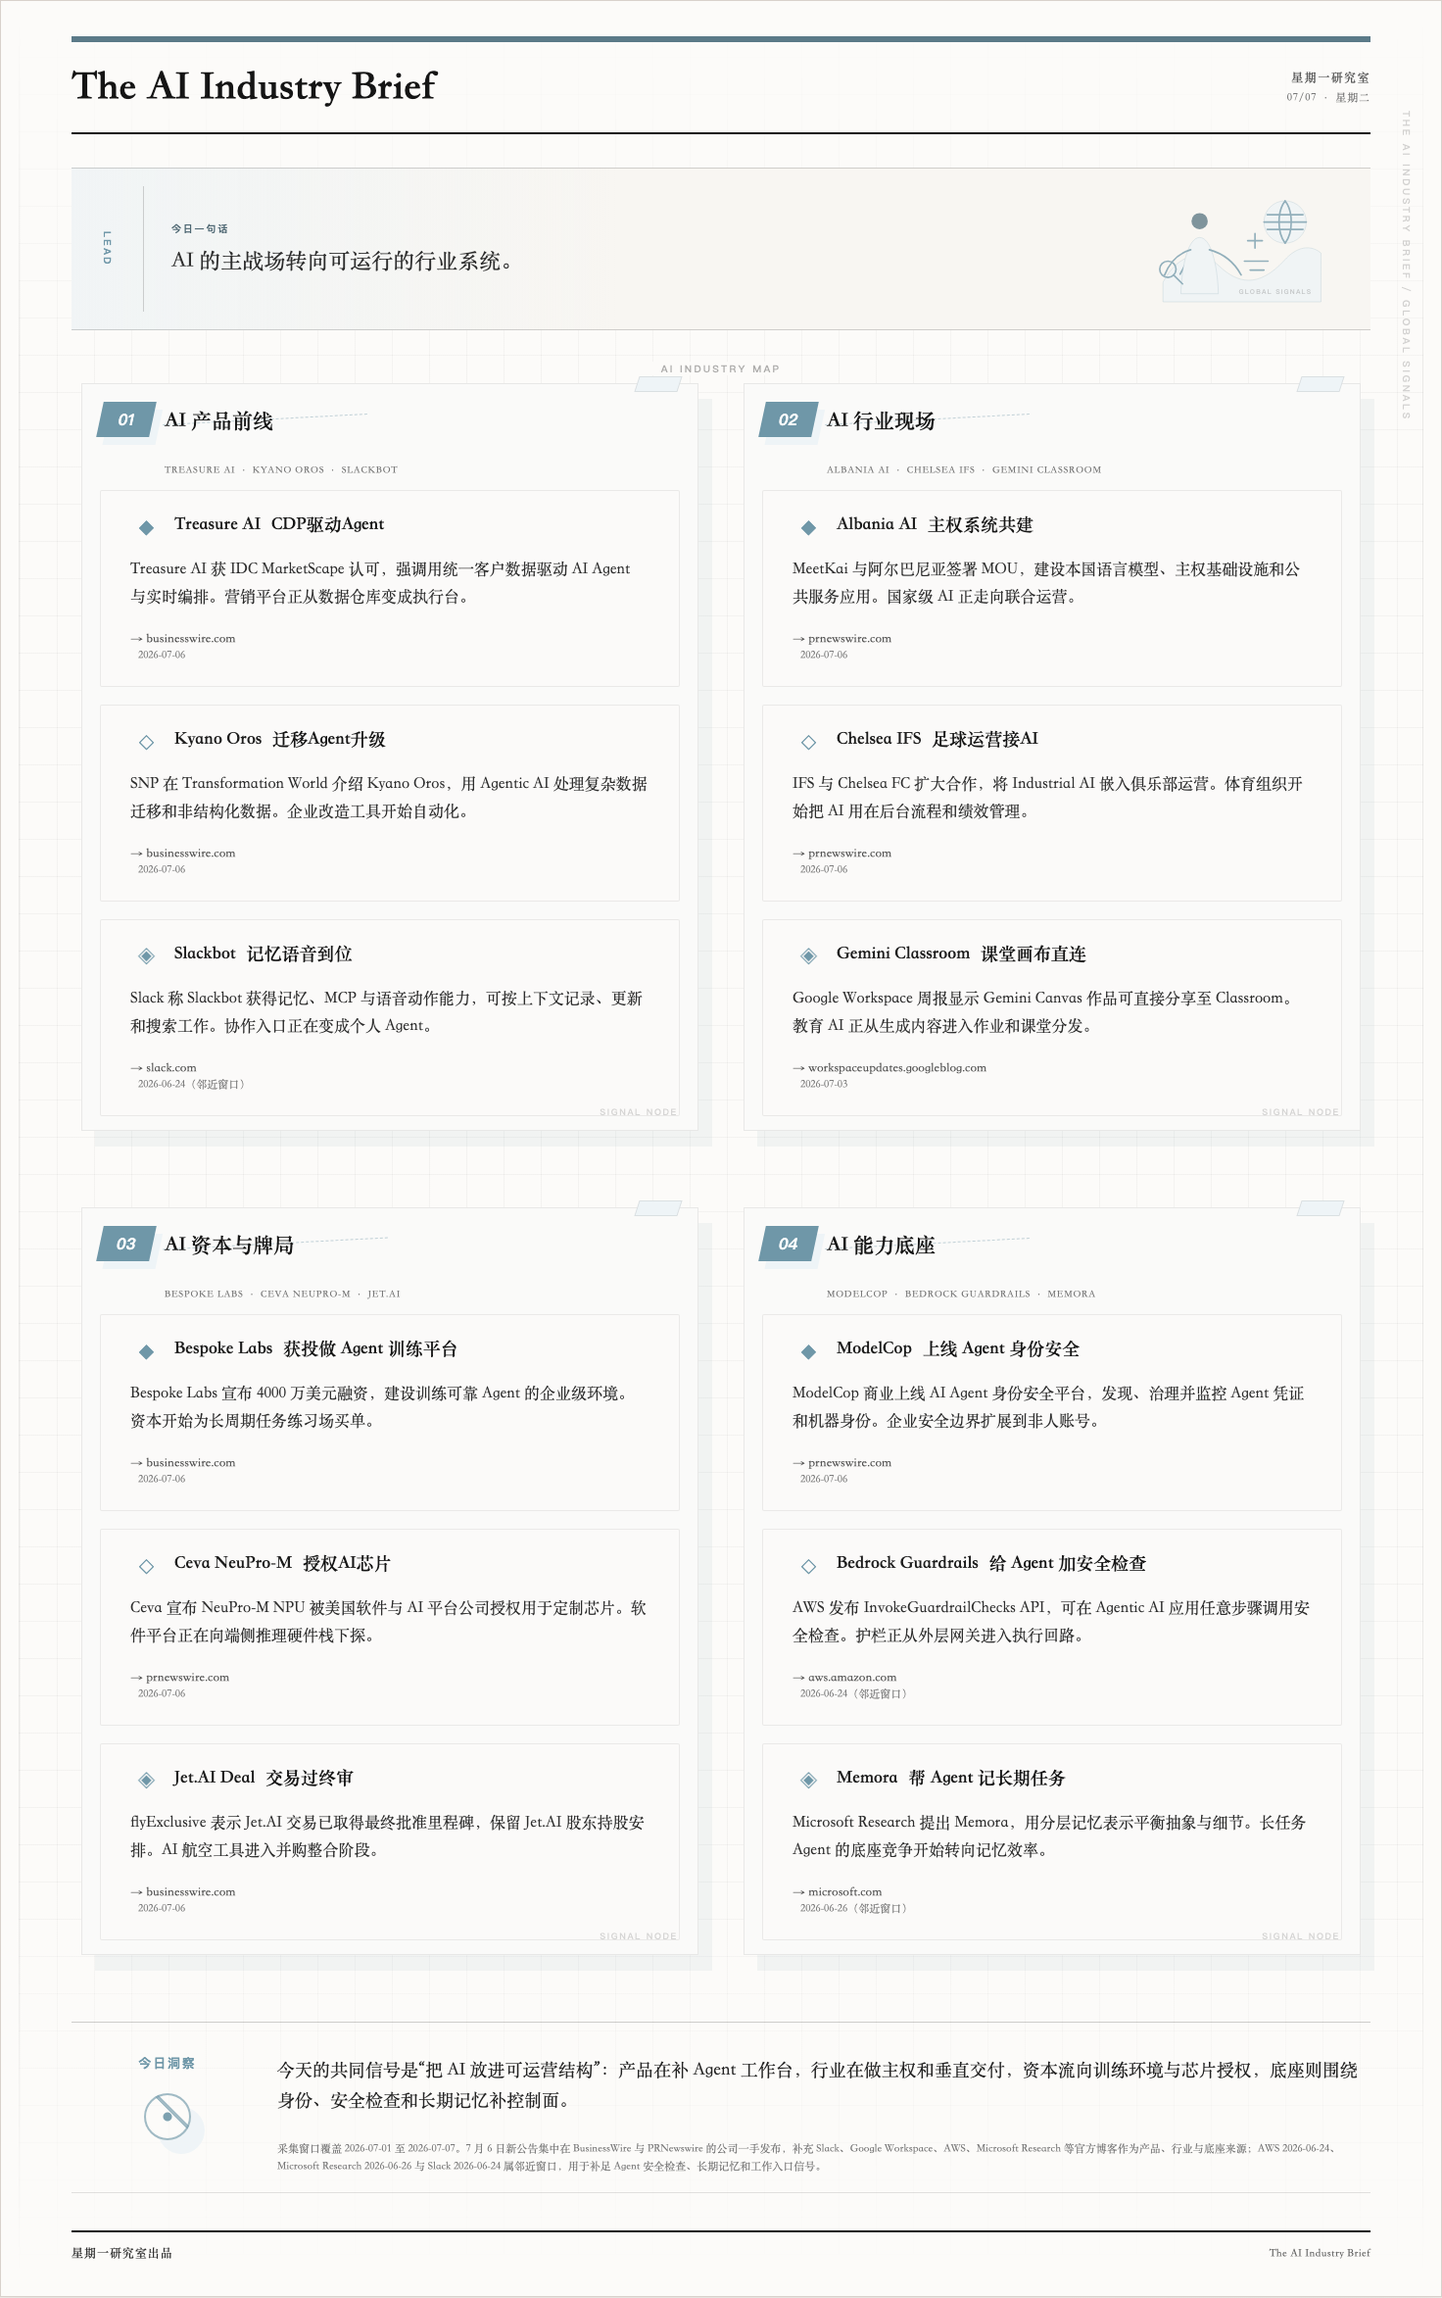
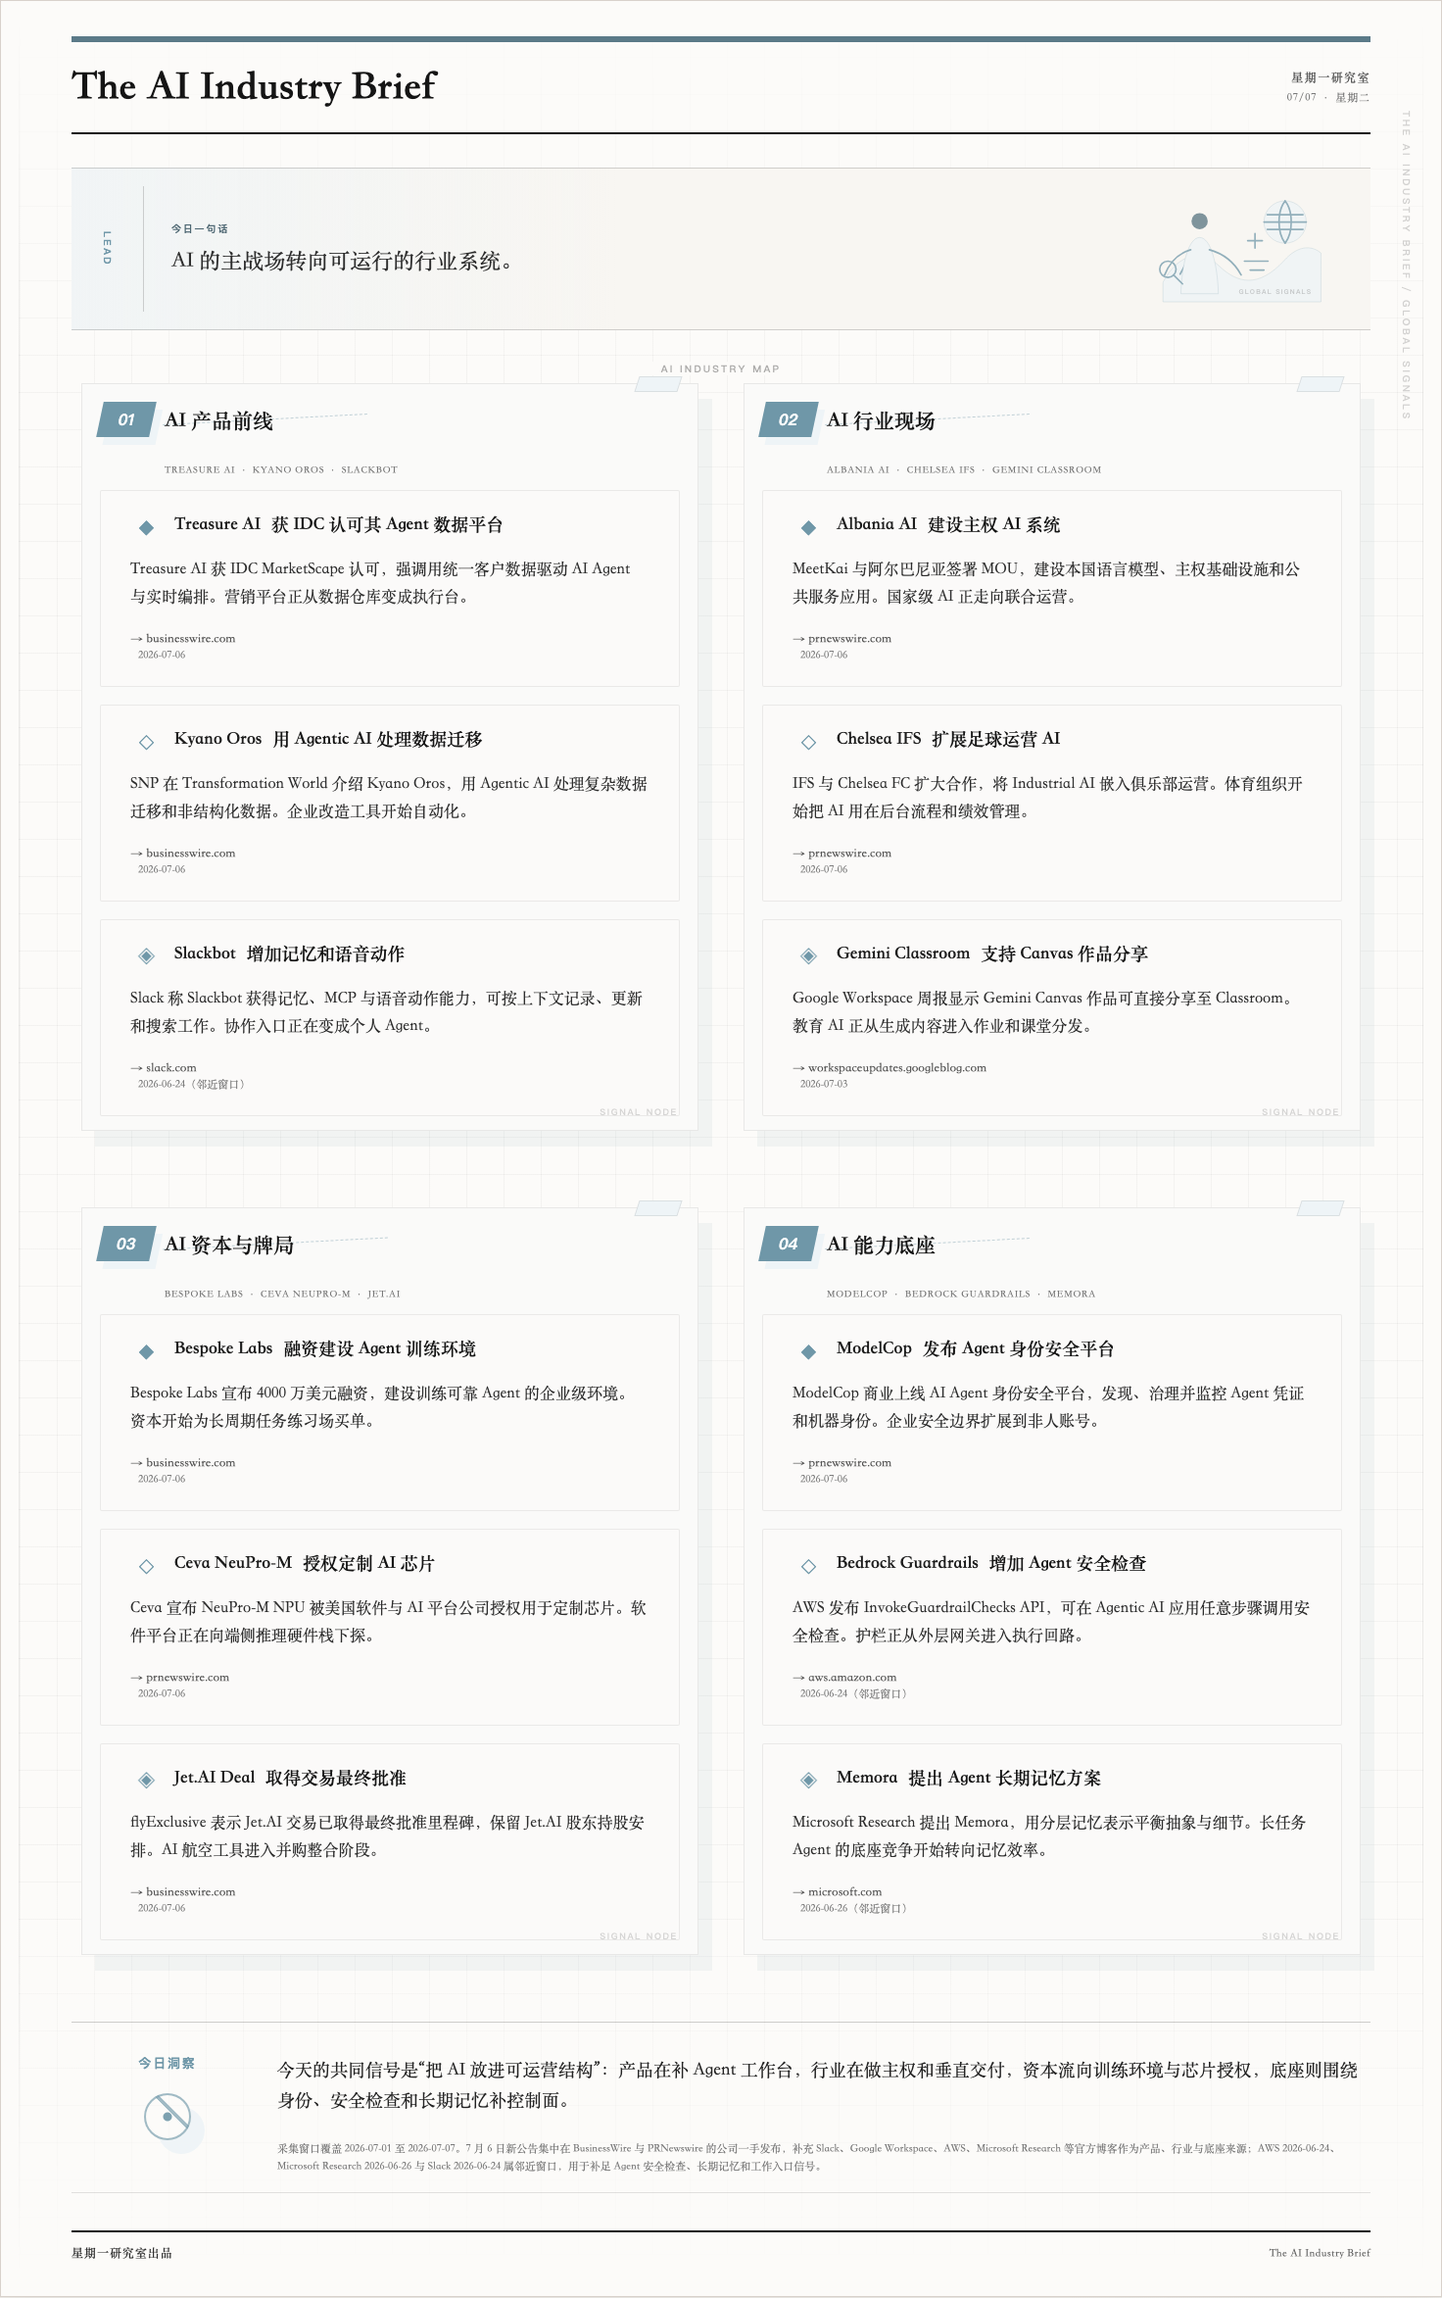
Clarify brief item title predicates

diff --git a/briefs/2026-07-07.html b/briefs/2026-07-07.html
@@ -548,17 +548,17 @@ body {
     <div class="section-sub">Treasure AI · Kyano Oros · Slackbot</div>
     <div class="section-items">
     <article class="item">
-      <div class="item-title"><span class="item-num" data-mark="◆" aria-label="01">01</span><span class="item-copy"><span class="item-tool">Treasure AI</span> <span class="item-heading">CDP驱动Agent</span></span></div>
+      <div class="item-title"><span class="item-num" data-mark="◆" aria-label="01">01</span><span class="item-copy"><span class="item-tool">Treasure AI</span> <span class="item-heading">获 IDC 认可其 Agent 数据平台</span></span></div>
       <p class="item-desc">Treasure AI 获 IDC MarketScape 认可，强调用统一客户数据驱动 AI Agent 与实时编排。营销平台正从数据仓库变成执行台。</p>
       <a class="item-source" href="https://www.businesswire.com/news/home/20260706126013/en/Treasure-AI-Recognized-as-a-Leader-for-Both-B2C-and-B2B-Users-in-the-2026-IDC-MarketScape-for-Worldwide-AI-Enabled-Customer-Data-Platforms" target="_blank" rel="noopener noreferrer">→ businesswire.com</a><span class="source-date">2026-07-06</span>
     </article>
     <article class="item">
-      <div class="item-title"><span class="item-num" data-mark="◇" aria-label="02">02</span><span class="item-copy"><span class="item-tool">Kyano Oros</span> <span class="item-heading">迁移Agent升级</span></span></div>
+      <div class="item-title"><span class="item-num" data-mark="◇" aria-label="02">02</span><span class="item-copy"><span class="item-tool">Kyano Oros</span> <span class="item-heading">用 Agentic AI 处理数据迁移</span></span></div>
       <p class="item-desc">SNP 在 Transformation World 介绍 Kyano Oros，用 Agentic AI 处理复杂数据迁移和非结构化数据。企业改造工具开始自动化。</p>
       <a class="item-source" href="https://www.businesswire.com/news/home/20260706867577/en/Transformation-World-2026-The-Best-Data-for-Business-AI" target="_blank" rel="noopener noreferrer">→ businesswire.com</a><span class="source-date">2026-07-06</span>
     </article>
     <article class="item">
-      <div class="item-title"><span class="item-num" data-mark="◈" aria-label="03">03</span><span class="item-copy"><span class="item-tool">Slackbot</span> <span class="item-heading">记忆语音到位</span></span></div>
+      <div class="item-title"><span class="item-num" data-mark="◈" aria-label="03">03</span><span class="item-copy"><span class="item-tool">Slackbot</span> <span class="item-heading">增加记忆和语音动作</span></span></div>
       <p class="item-desc">Slack 称 Slackbot 获得记忆、MCP 与语音动作能力，可按上下文记录、更新和搜索工作。协作入口正在变成个人 Agent。</p>
       <a class="item-source" href="https://slack.com/blog/news/the-ai-that-knows-your-work-and-organization" target="_blank" rel="noopener noreferrer">→ slack.com</a><span class="source-date">2026-06-24（邻近窗口）</span>
     </article>
@@ -575,17 +575,17 @@ body {
     <div class="section-sub">Albania AI · Chelsea IFS · Gemini Classroom</div>
     <div class="section-items">
     <article class="item">
-      <div class="item-title"><span class="item-num" data-mark="◆" aria-label="01">01</span><span class="item-copy"><span class="item-tool">Albania AI</span> <span class="item-heading">主权系统共建</span></span></div>
+      <div class="item-title"><span class="item-num" data-mark="◆" aria-label="01">01</span><span class="item-copy"><span class="item-tool">Albania AI</span> <span class="item-heading">建设主权 AI 系统</span></span></div>
       <p class="item-desc">MeetKai 与阿尔巴尼亚签署 MOU，建设本国语言模型、主权基础设施和公共服务应用。国家级 AI 正走向联合运营。</p>
       <a class="item-source" href="https://www.prnewswire.com/news-releases/meetkai-and-albania-announce-joint-venture-to-advance-sovereign-ai-302818647.html" target="_blank" rel="noopener noreferrer">→ prnewswire.com</a><span class="source-date">2026-07-06</span>
     </article>
     <article class="item">
-      <div class="item-title"><span class="item-num" data-mark="◇" aria-label="02">02</span><span class="item-copy"><span class="item-tool">Chelsea IFS</span> <span class="item-heading">足球运营接AI</span></span></div>
+      <div class="item-title"><span class="item-num" data-mark="◇" aria-label="02">02</span><span class="item-copy"><span class="item-tool">Chelsea IFS</span> <span class="item-heading">扩展足球运营 AI</span></span></div>
       <p class="item-desc">IFS 与 Chelsea FC 扩大合作，将 Industrial AI 嵌入俱乐部运营。体育组织开始把 AI 用在后台流程和绩效管理。</p>
       <a class="item-source" href="https://www.prnewswire.com/news-releases/ifs-and-chelsea-fc-announce-landmark-agreement-to-embed-industrial-ai-across-premier-league-football-operations-302818549.html" target="_blank" rel="noopener noreferrer">→ prnewswire.com</a><span class="source-date">2026-07-06</span>
     </article>
     <article class="item">
-      <div class="item-title"><span class="item-num" data-mark="◈" aria-label="03">03</span><span class="item-copy"><span class="item-tool">Gemini Classroom</span> <span class="item-heading">课堂画布直连</span></span></div>
+      <div class="item-title"><span class="item-num" data-mark="◈" aria-label="03">03</span><span class="item-copy"><span class="item-tool">Gemini Classroom</span> <span class="item-heading">支持 Canvas 作品分享</span></span></div>
       <p class="item-desc">Google Workspace 周报显示 Gemini Canvas 作品可直接分享至 Classroom。教育 AI 正从生成内容进入作业和课堂分发。</p>
       <a class="item-source" href="https://workspaceupdates.googleblog.com/2026/07/weekly-recap-07-03-2026.html" target="_blank" rel="noopener noreferrer">→ workspaceupdates.googleblog.com</a><span class="source-date">2026-07-03</span>
     </article>
@@ -602,17 +602,17 @@ body {
     <div class="section-sub">Bespoke Labs · Ceva NeuPro-M · Jet.AI</div>
     <div class="section-items">
     <article class="item">
-      <div class="item-title"><span class="item-num" data-mark="◆" aria-label="01">01</span><span class="item-copy"><span class="item-tool">Bespoke Labs</span> <span class="item-heading">获投做 Agent 训练平台</span></span></div>
+      <div class="item-title"><span class="item-num" data-mark="◆" aria-label="01">01</span><span class="item-copy"><span class="item-tool">Bespoke Labs</span> <span class="item-heading">融资建设 Agent 训练环境</span></span></div>
       <p class="item-desc">Bespoke Labs 宣布 4000 万美元融资，建设训练可靠 Agent 的企业级环境。资本开始为长周期任务练习场买单。</p>
       <a class="item-source" href="https://www.businesswire.com/news/home/20260706827813/en/Bespoke-Labs-Announces-%2440M-to-Build-the-Environments-That-Train-Reliable-Agents" target="_blank" rel="noopener noreferrer">→ businesswire.com</a><span class="source-date">2026-07-06</span>
     </article>
     <article class="item">
-      <div class="item-title"><span class="item-num" data-mark="◇" aria-label="02">02</span><span class="item-copy"><span class="item-tool">Ceva NeuPro-M</span> <span class="item-heading">授权AI芯片</span></span></div>
+      <div class="item-title"><span class="item-num" data-mark="◇" aria-label="02">02</span><span class="item-copy"><span class="item-tool">Ceva NeuPro-M</span> <span class="item-heading">授权定制 AI 芯片</span></span></div>
       <p class="item-desc">Ceva 宣布 NeuPro-M NPU 被美国软件与 AI 平台公司授权用于定制芯片。软件平台正在向端侧推理硬件栈下探。</p>
       <a class="item-source" href="https://www.prnewswire.com/news-releases/ceva-wins-landmark-ai-licensing-deal-with-major-us-software-and-ai-platform-company-302818112.html" target="_blank" rel="noopener noreferrer">→ prnewswire.com</a><span class="source-date">2026-07-06</span>
     </article>
     <article class="item">
-      <div class="item-title"><span class="item-num" data-mark="◈" aria-label="03">03</span><span class="item-copy"><span class="item-tool">Jet.AI Deal</span> <span class="item-heading">交易过终审</span></span></div>
+      <div class="item-title"><span class="item-num" data-mark="◈" aria-label="03">03</span><span class="item-copy"><span class="item-tool">Jet.AI Deal</span> <span class="item-heading">取得交易最终批准</span></span></div>
       <p class="item-desc">flyExclusive 表示 Jet.AI 交易已取得最终批准里程碑，保留 Jet.AI 股东持股安排。AI 航空工具进入并购整合阶段。</p>
       <a class="item-source" href="https://www.businesswire.com/news/home/20260706417264/en/flyExclusive-Reaches-Final-Approval-Milestone-for-Jet.AI-Transaction-Positioning-Company-for-Continued-Growth" target="_blank" rel="noopener noreferrer">→ businesswire.com</a><span class="source-date">2026-07-06</span>
     </article>
@@ -629,17 +629,17 @@ body {
     <div class="section-sub">ModelCop · Bedrock Guardrails · Memora</div>
     <div class="section-items">
     <article class="item">
-      <div class="item-title"><span class="item-num" data-mark="◆" aria-label="01">01</span><span class="item-copy"><span class="item-tool">ModelCop</span> <span class="item-heading">上线 Agent 身份安全</span></span></div>
+      <div class="item-title"><span class="item-num" data-mark="◆" aria-label="01">01</span><span class="item-copy"><span class="item-tool">ModelCop</span> <span class="item-heading">发布 Agent 身份安全平台</span></span></div>
       <p class="item-desc">ModelCop 商业上线 AI Agent 身份安全平台，发现、治理并监控 Agent 凭证和机器身份。企业安全边界扩展到非人账号。</p>
       <a class="item-source" href="https://www.prnewswire.com/news-releases/modelcop-launches-ai-agent-security-platform-targets-25b-machine-identity-market-302817714.html" target="_blank" rel="noopener noreferrer">→ prnewswire.com</a><span class="source-date">2026-07-06</span>
     </article>
     <article class="item">
-      <div class="item-title"><span class="item-num" data-mark="◇" aria-label="02">02</span><span class="item-copy"><span class="item-tool">Bedrock Guardrails</span> <span class="item-heading">给 Agent 加安全检查</span></span></div>
+      <div class="item-title"><span class="item-num" data-mark="◇" aria-label="02">02</span><span class="item-copy"><span class="item-tool">Bedrock Guardrails</span> <span class="item-heading">增加 Agent 安全检查</span></span></div>
       <p class="item-desc">AWS 发布 InvokeGuardrailChecks API，可在 Agentic AI 应用任意步骤调用安全检查。护栏正从外层网关进入执行回路。</p>
       <a class="item-source" href="https://aws.amazon.com/blogs/machine-learning/safeguard-your-agentic-ai-applications-with-the-amazon-bedrock-guardrails-invokeguardrailchecks-api/" target="_blank" rel="noopener noreferrer">→ aws.amazon.com</a><span class="source-date">2026-06-24（邻近窗口）</span>
     </article>
     <article class="item">
-      <div class="item-title"><span class="item-num" data-mark="◈" aria-label="03">03</span><span class="item-copy"><span class="item-tool">Memora</span> <span class="item-heading">帮 Agent 记长期任务</span></span></div>
+      <div class="item-title"><span class="item-num" data-mark="◈" aria-label="03">03</span><span class="item-copy"><span class="item-tool">Memora</span> <span class="item-heading">提出 Agent 长期记忆方案</span></span></div>
       <p class="item-desc">Microsoft Research 提出 Memora，用分层记忆表示平衡抽象与细节。长任务 Agent 的底座竞争开始转向记忆效率。</p>
       <a class="item-source" href="https://www.microsoft.com/en-us/research/blog/memora-a-harmonic-memory-representation-balancing-abstraction-and-specificity/" target="_blank" rel="noopener noreferrer">→ microsoft.com</a><span class="source-date">2026-06-26（邻近窗口）</span>
     </article>

diff --git a/skills/ai-industry-brief/references/brief-spec.md b/skills/ai-industry-brief/references/brief-spec.md
@@ -100,8 +100,8 @@
 - 写 HTML 之前，必须先准备 `brief-data/YYYY-MM-DD.json`。
 - 新一期动态不得与历史条目的来源 URL 或标题重复。
 - 新一期还要做语义重复检查：避免连续多条只是同一公司、同一产品线、同一主题簇的轻微变体；同时避免近 3 天同栏目重复同一产品线造成读者疲劳。去重脚本出现 `WARN` 时，应优先替换候选；只有当该集中度本身就是当天判断，才保留并写入 `methodNote`。
-- 数据标题可用 `产品/工具名 | 核心动作短语` 保持可解析结构，但详情页可见标题不要显示竖线。页面应读作一句自然短标题，例如 `Bespoke Labs 获投做 Agent 训练平台`，避免让前半段像孤立主语、后半段像残缺谓语。
-- 核心动作短语优先写“对象 + 具体用途/动作”，少用 `训练场`、`执行流`、`提效`、`控制面` 这类需要解释的内部判断词。
+- 数据标题可用 `产品/工具名 | 明确动作 + 对象` 保持可解析结构，但详情页可见标题不要显示竖线。页面可见标题必须能像一句短新闻单独读通，结构为“公司/产品 + 明确谓语动词 + 对象”，例如 `OpenAI 发布 GPT-5.5 模型`、`ModelCop 发布 Agent 身份安全平台`。
+- 核心动作短语必须保留清晰谓语，优先使用 `发布`、`推出`、`融资建设`、`开源`、`收购`、`接入`、`增加`、`提出`、`测试`、`部署` 等动词；避免 `获投做...`、`...上架`、`...提效`、`...进执行流`、`训练场`、`控制面` 这类需要读者二次解释的名词化或内部判断词。
 - 描述格式：先写事实，再写意义或影响；目标长度 60-80 个中文字符。
 - 今日一句话：一句明确判断，不超过 50 个中文字符。
 - 今日洞察：综合多个栏目，不超过 150 个中文字符；避免“持续关注”“值得期待”这类虚浮收尾。
